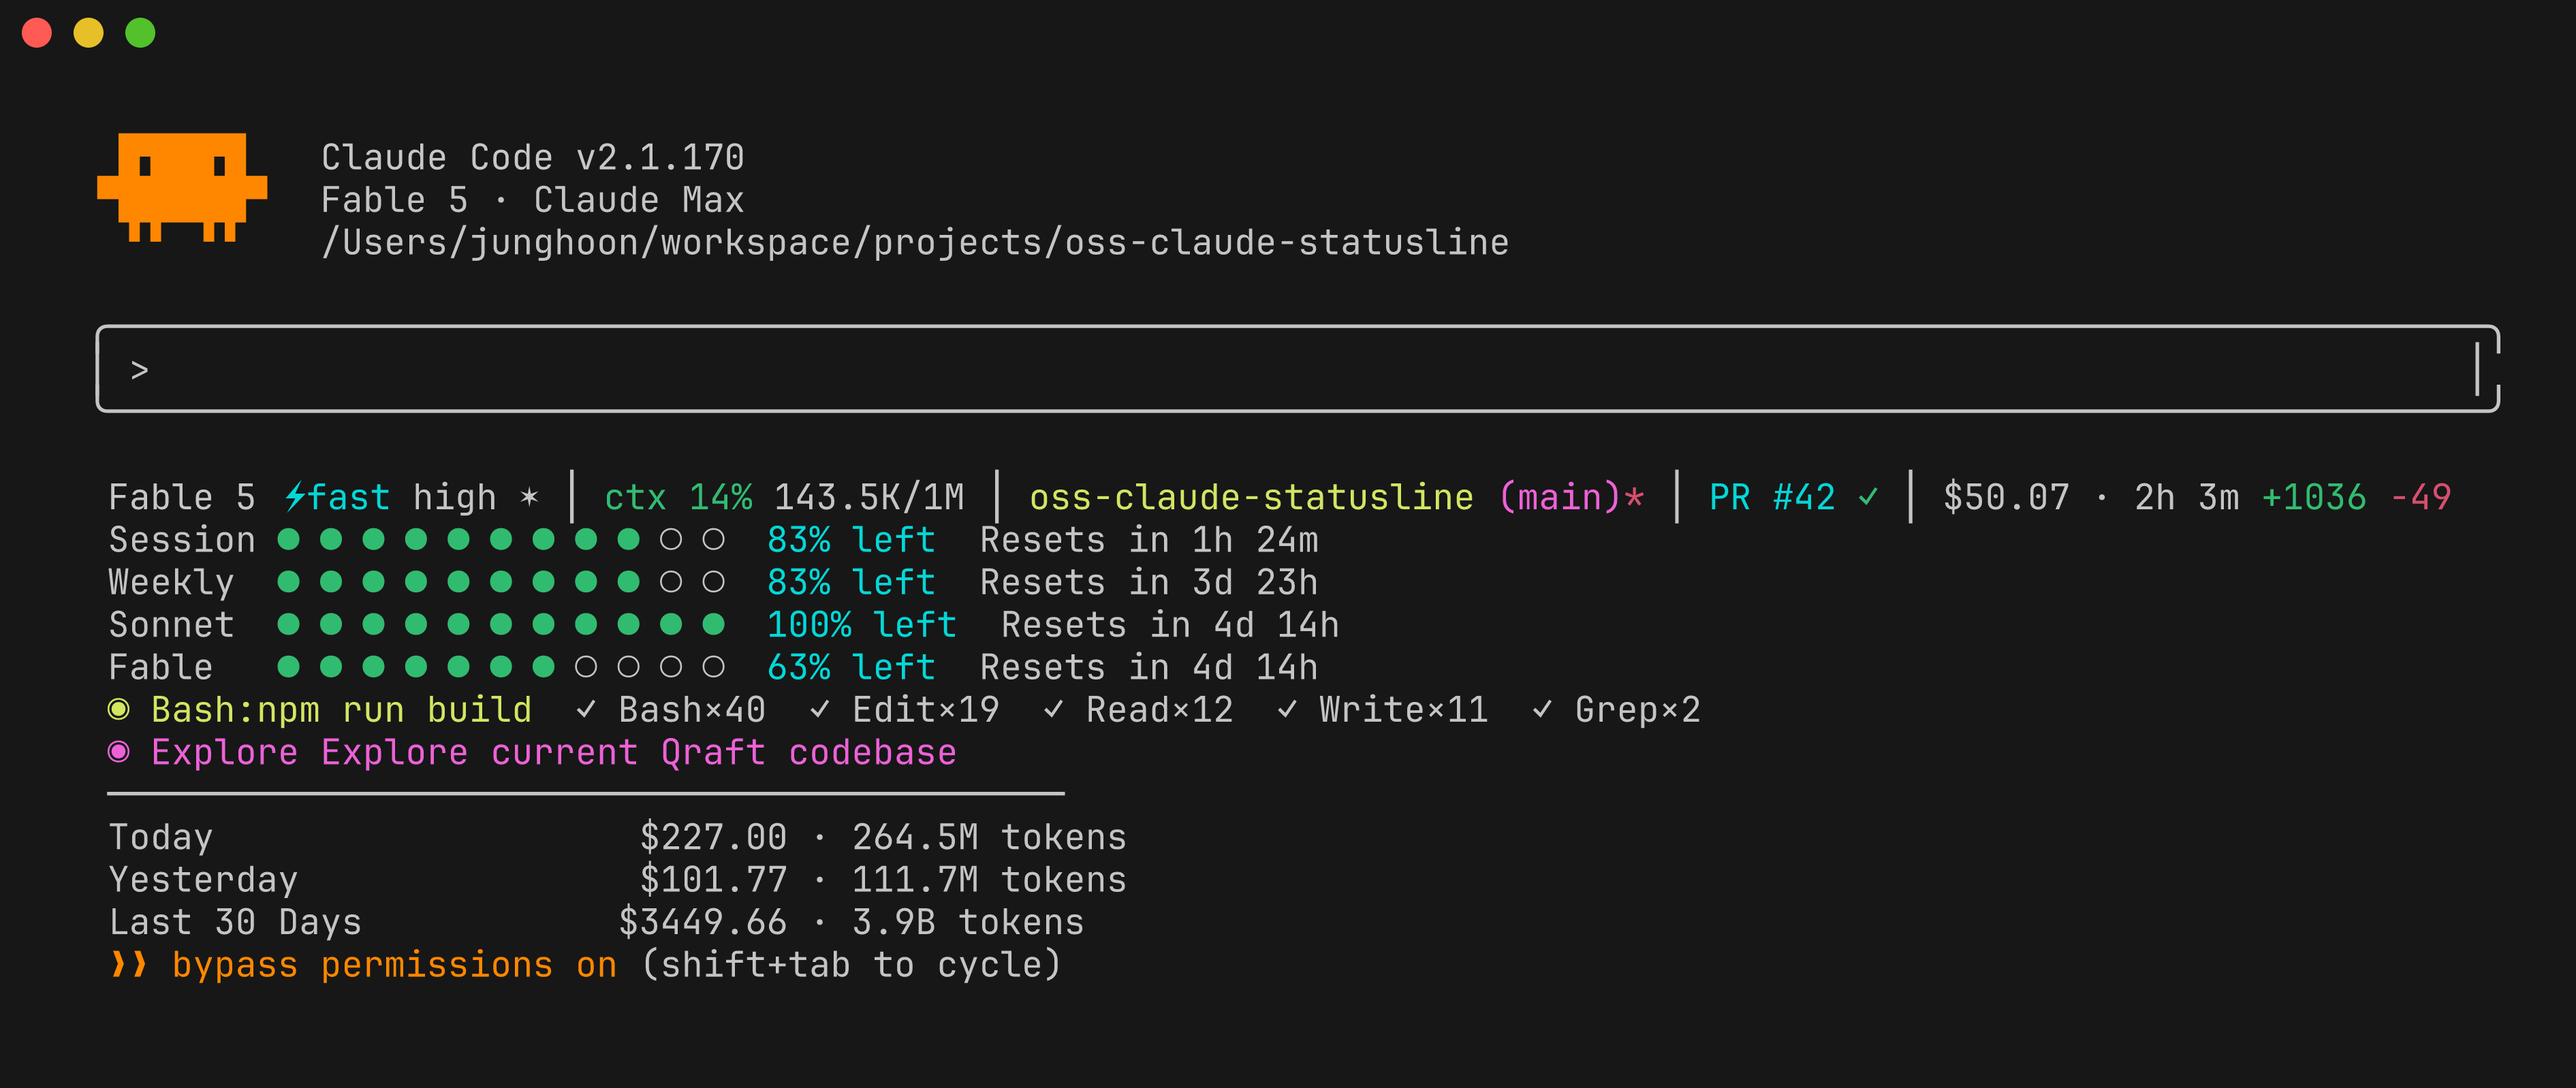
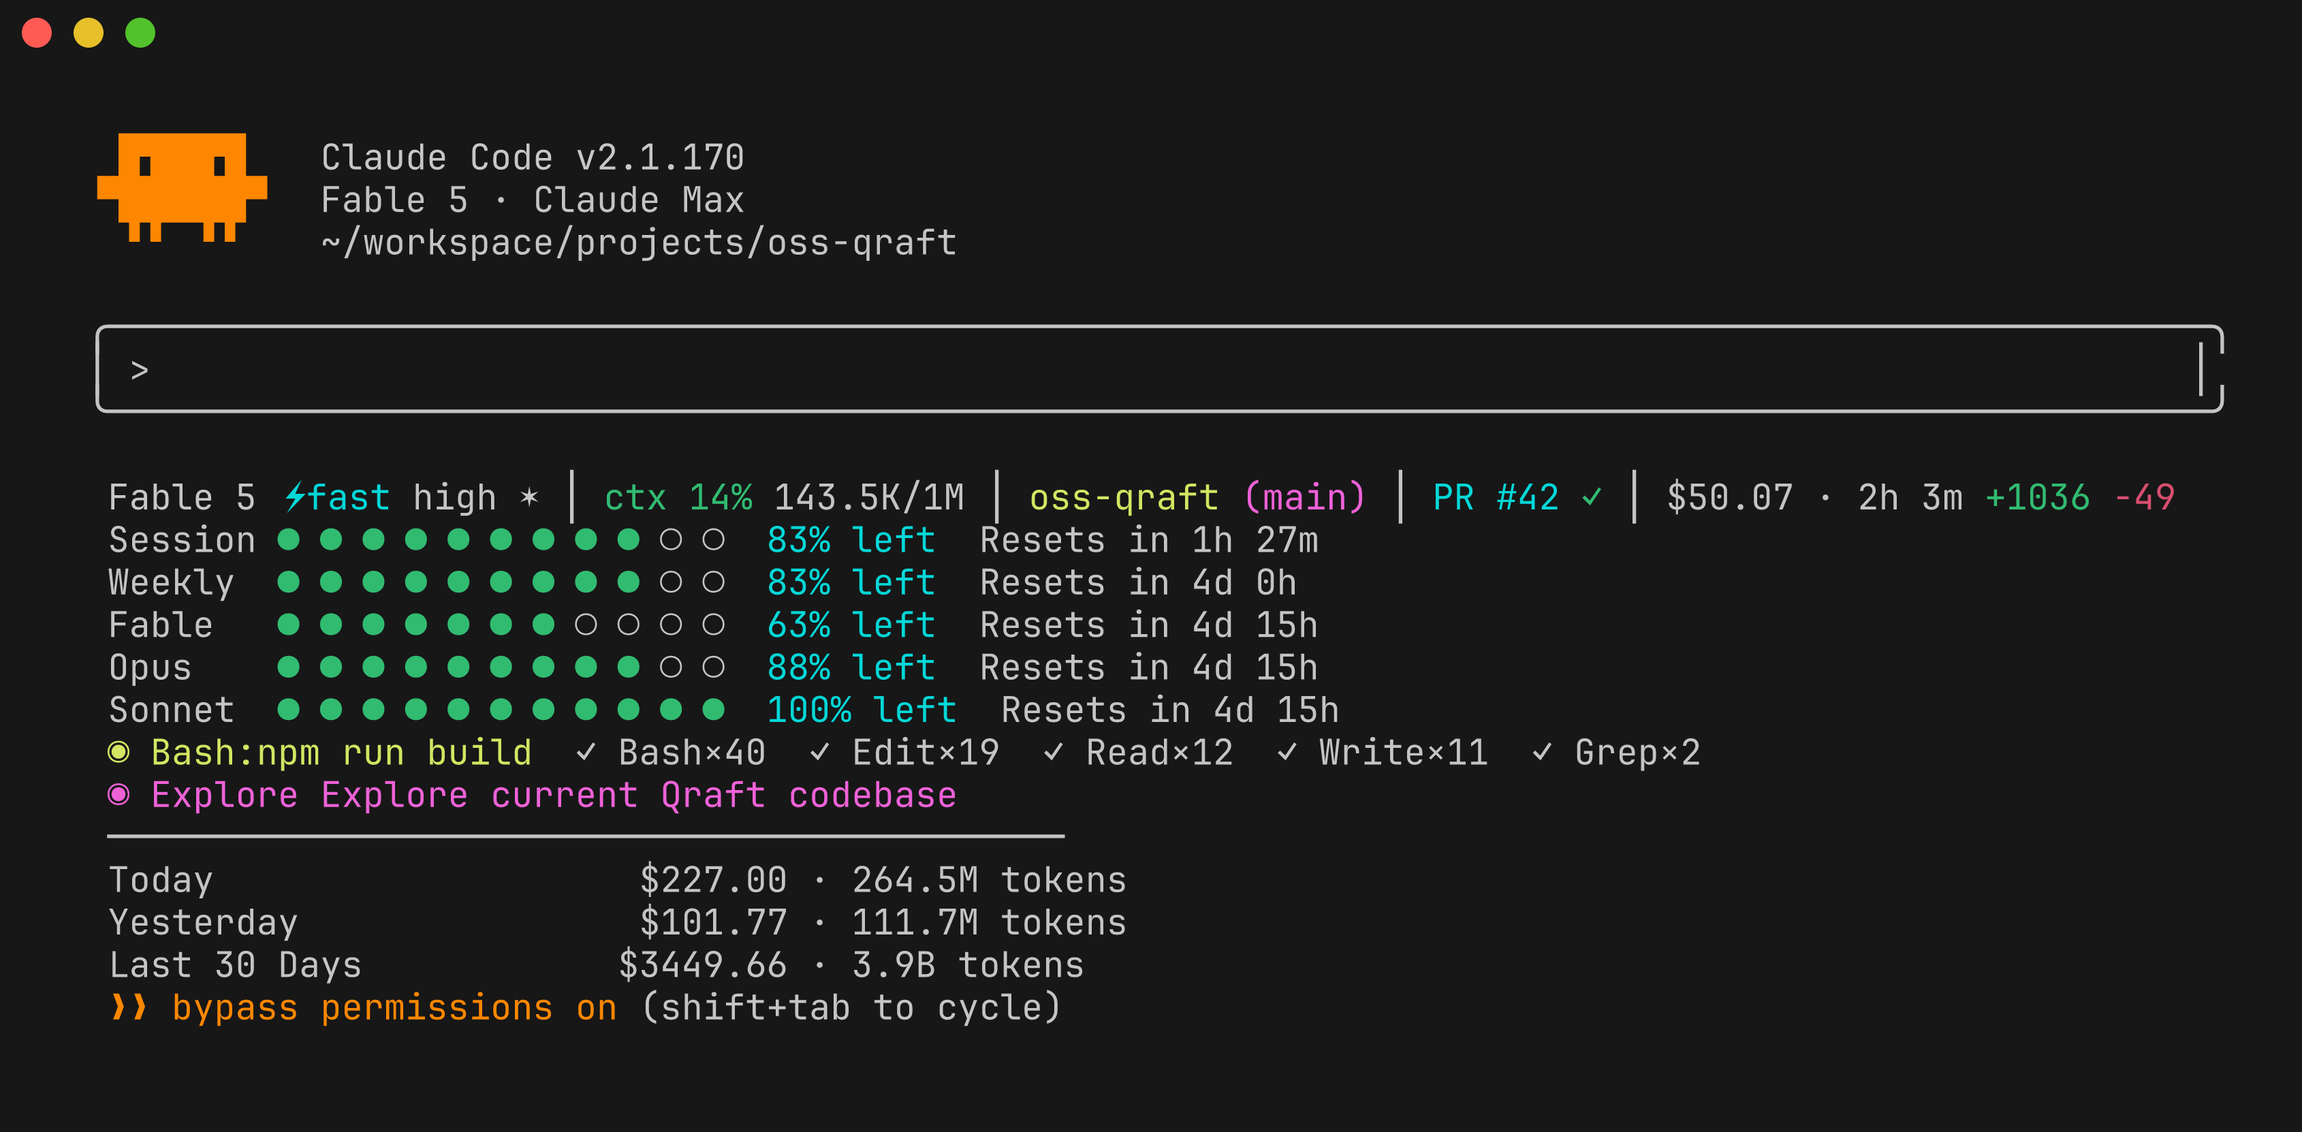
Order rate-limit buckets by model capability + reusable screenshot script
- Sort per-model weekly buckets Fable > Opus > Sonnet > Haiku (unknown after),
  fixing a jq context bug where buckets could fail to render
- Add scripts/screenshot.sh: renders statusline in a mock Claude Code UI
  (banner, input box, permission line) for easy README refreshes; backs up
  and restores real ~/.claude caches
- Regenerate screenshot.png with accurate per-model bucket ordering
- README: show Fable/Opus/Sonnet ordering, note buckets are plan-dependent
- CONTRIBUTING: document screenshot regeneration

diff --git a/README.md b/README.md
@@ -41,6 +41,8 @@ This statusline fixes all of that.
   Fable 5 ⚡fast high ✦ │ ctx 14% 143.5K/1M │ oss-qraft (main)* │ PR #42 ✓ │ $50.07 · 2h 3m +1036 -49
   Session ● ● ● ● ● ● ● ● ○ ○  83% left  Resets in 1h 27m
   Weekly  ● ● ● ● ● ● ● ● ○ ○  83% left  Resets in 3d 23h
+  Fable   ● ● ● ● ● ● ● ○ ○ ○  63% left  Resets in 4d 15h
+  Opus    ● ● ● ● ● ● ● ● ● ○  88% left  Resets in 4d 15h
   Sonnet  ● ● ● ● ● ● ● ● ● ●  100% left  Resets in 4d 15h
   ✓ Bash×40  ✓ Edit×19  ✓ Read×12  ✓ Write×11  ✓ Grep×2
   ◐ Explore Explore current Qraft codebase
@@ -73,7 +75,9 @@ Badges only appear when the data exists — e.g. `⚡fast` shows only with fast 
 
 ### Per-model rate limit buckets
 
-Model-specific weekly buckets (`Opus`, `Sonnet`, `Fable`, …) are **auto-detected** from the OAuth usage API — whatever buckets Anthropic reports for your plan show up automatically, so new models appear without a script update. Buckets the API reports as `null` (inactive for your plan) are hidden. An `Extra` gauge appears when extra usage credits are enabled on your account.
+Model-specific weekly buckets (`Fable`, `Opus`, `Sonnet`, `Haiku`, …) are **auto-detected** from the OAuth usage API — whatever buckets Anthropic reports for your plan show up automatically, so new models appear without a script update. They are ordered by model capability (most capable first), and buckets the API reports as `null` (inactive for your plan) are hidden. An `Extra` gauge appears when extra usage credits are enabled on your account.
+
+> Note: which model buckets exist depends on your plan and usage — most accounts only see a subset (e.g. just `Sonnet`). The screenshot above shows the full layout for illustration.
 
 ### Color coding
 

diff --git a/CONTRIBUTING.md b/CONTRIBUTING.md
@@ -31,6 +31,20 @@ Always run a syntax check before committing:
 bash -n statusline.sh && bash -n ccusage-cache.sh && bash -n install.sh && bash -n install-remote.sh
 ```
 
+## Refreshing the README screenshot
+
+When you add a section or badge, regenerate the README image so it stays current:
+
+```bash
+brew install charmbracelet/tap/freeze   # one-time
+scripts/screenshot.sh                    # writes ./screenshot.png
+```
+
+The script renders `statusline.sh` against a sample payload wrapped in a mock
+Claude Code UI (banner, input box, permission line). To showcase a new field,
+edit the `SAMPLE` payload and fake-cache heredocs inside `scripts/screenshot.sh`.
+It backs up and restores your real `~/.claude` caches automatically.
+
 ## Guidelines
 
 - **Keep it pure bash.** The whole point of this project is zero runtime beyond
